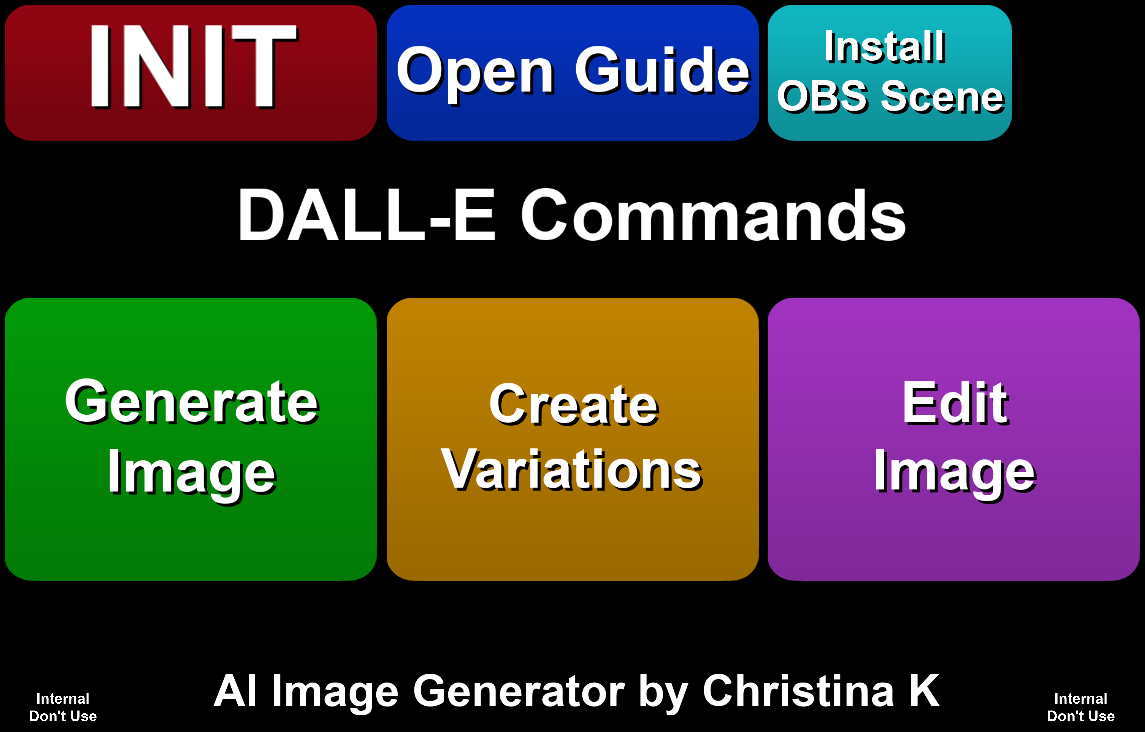
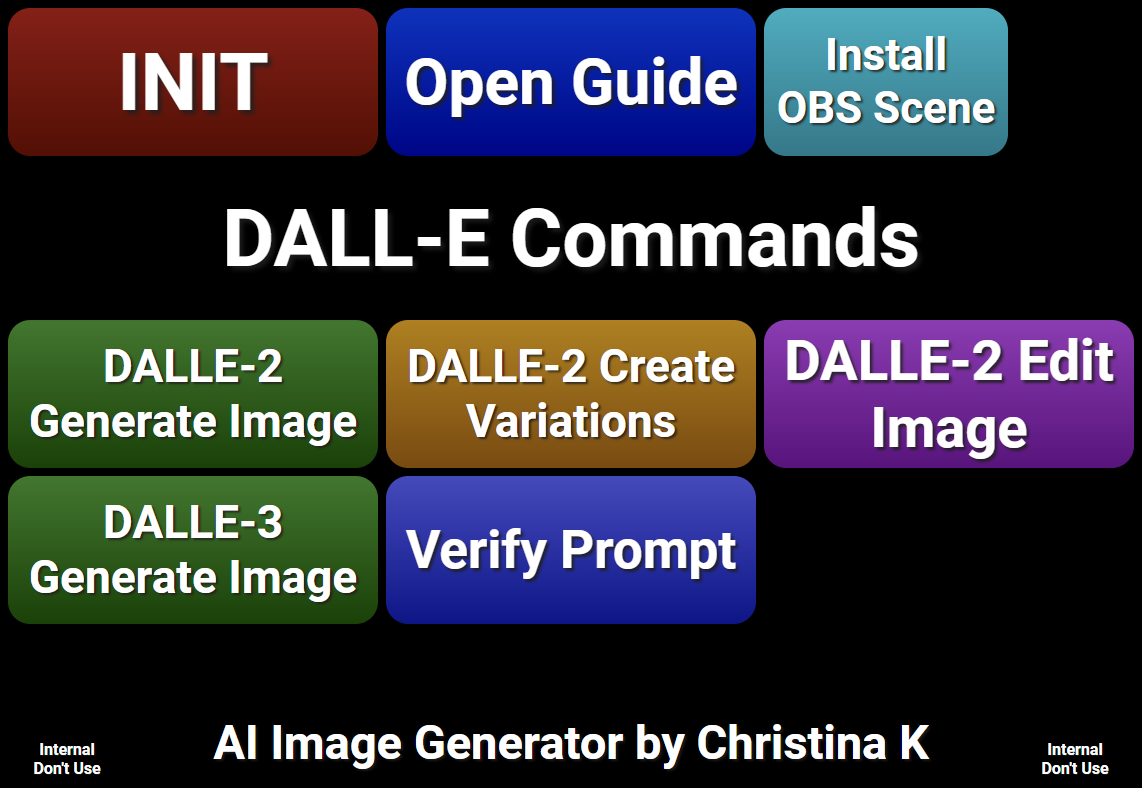
update ai image generator extension

diff --git a/collections/_extensions/ai-image-generator.md b/collections/_extensions/ai-image-generator.md
@@ -4,7 +4,7 @@ title: AI Image Generator
 slug: ai-image-generator
 desc: Integrate DALL-E in your streams.
 category: utilities
-date: '2023-03-27T00:00:00-05:00'
+date: '2023-04-20T00:00:00-05:00'
 permalink: extensions/utilities/:slug
 download_url: https://christinak.itch.io/ai-image-generator
 developer_name: Christina K.
@@ -22,12 +22,15 @@ overview: |
     ##### Features  
 
     **Generating images**
-    - Generate new image(s) based on a prompt
+    - Generate new image(s) based on a prompt with DALL-E 2 or DALL-E 3 models
     - Generate image variation(s) based on a provided image
     - Generate image edit(s) based on a provided image and mask. 
 
     **Saving Images**
     - Saves the generated image(s) to URL or to a file. 
+
+    **Verifying Prompts**
+    - Verify the prompt is safe before generating an image (0 cost)
 
     **User friendly**
     - Lots of checks implemented to avoid sending invalid parameters to Open API
@@ -45,41 +48,54 @@ overview: |
     *Icon generated by OpenAI*
 
 setup: |
-    ##### PLEASE REVIEW BEFORE USING THE EXTENSION: 
-    - DALL-E is a paid service, it requires an OpenAI account and a credit card
-    - Always monitor your usage via the official OpenAI dashboard
-    - Set usage limits via the official OpenAI dashboard
-    - As this is a beta release of the extension, using it could potentially lead
-    to higher API calls usage due to user error or possible bugs. 
+
+
+    <div class="alert alert-warning mt-2" role="alert">DALL-E is a paid service, it requires an OpenAI account and a credit card. Please set usage limits and monitor your usage via <a href='https://platform.openai.com/account/limits'>OpenAI dashboard</a>.</div>
 
     1. Install the extension. You can follow the [Extension Install Guide](https://sammi.solutions/extensions/install).
     2. Setup your INIT button
        - `API Key`: 
-            1. Navigate to [https://platform.openai.com/signup](https://platform.openai.com/signup)
+            1. Navigate to [https://platform.openai.com](https://platform.openai.com)
             2. Login or create a new account
-            3. Click on 'Personal' profile in the top right corner and select View API Keys
+            3. Navigate to [API Keys](https://platform.openai.com/api-keys)
             4. Create a new secret key
             5. Copy paste the key in the Open AI API box in the INIT button
-            6. Set up your payment method (else it won't work - the service is not free)
-            7. Set you usage limits at [https://platform.openai.com/account/billing/limits](https://platform.openai.com/account/billing/limits)
+            6. Set up your payment method in the [Billing section](https://platform.openai.com/settings/organization/billing/overview) and add credits to your balance or enable auto-recharge
+            7. Set your [usage limits](https://platform.openai.com/settings/organization/limits)
 
-    <div class="alert alert-info mt-2" role="alert">Image generation can take a while. Adjust your delays for the following commands accordingly, 60 seconds or more is recommended to account for high traffic.</div>
+    <div class="alert alert-info mt-2" role="alert">Image generation can take a while. Adjust your delays for the following commands accordingly, 60 seconds or more is recommended to account for high traffic.</div> 
 
     ##### DALL-E Generate
-    Generates a new image based on a prompt. All buttons with DALL-E commands must be set to persistent.
+    Generates a new image based on a prompt, uses DALL-E 2 model. 
 
-    | Box Name | Description| 
+    | Box Name | Description|
     |-------|--------|
     Prompt	|The image description, the more detailed the better, max 1000 characters
     Amount|	Amount of images to generate, between 1-10
     Size	|Size of the generated image
     Response|	Save the image as a file or as a URL. If saving it as a file, it will be saved in your SAMMI folder/Ext/image generations. To prevent files from being accidentally overridden, the filename is automatically generated in the following format: `DALL·E {timestamp} - {truncated prompt}_{index}.png`
     Save As Variable|	Variable to save the result into, won't be set at all if generating failed. If saving the image as a file, it will be an array containing all image file paths. If saving the image as a URL, it will be an array containing all image URLs
-    Save as Variable (status)	|Variable to save the status result into. If the request succeeds, it will be set to `1`, if not, it will be set to `0`
+    Save as Variable (status) | Variable to save the status result into. If the request succeeds, it will be set to `1`, if not, it will be set to `0`
+    {:class='table table-secondary w-auto table-hover text-break'}	
+
+    ##### DALL-E 3 Generate
+    Generates a new image based on a prompt, uses DALL-E 3 model. 
+
+    | Box Name | Description| 
+    |-------|--------|
+    Prompt	| The image description, the more detailed the better, max 1000 characters
+    Amount	| Amount of images to generate. Currently only 1 image is supported
+    Quality | The quality of the image. Hd creates images with finer details and greater consistency across the image.
+    Size	| Size of the generated image
+    Style |  Vivid causes the model to lean towards generating hyper-real and dramatic images. Natural causes the model to produce more natural, less hyper-real looking images. 
+    Response |	Save the image as a file or as a URL. If saving it as a file, it will be saved in your SAMMI folder/Ext/image generations. To prevent files from being accidentally overridden, the filename is automatically generated in the following format: `DALL·E {timestamp} - {truncated prompt}_{index}.png`
+    Save As Variable |	Variable to save the result into, won't be set at all if generating failed. If saving the image as a file, it will be an array containing all image file paths. If saving the image as a URL, it will be an array containing all image URLs
+    Save as Variable (status) | Variable to save the status result into. If the request succeeds, it will be set to `1`, if not, it will be set to `0`
     {:class='table table-secondary w-auto table-hover text-break' }	
 
+
     ##### DALL-E Variations
-    Generates image variations based on the supplied image. All buttons with DALL-E commands must be set to persistent.
+    Generates image variations based on the supplied image. Uses DALL-E 2 model.
 
 
     | Box Name | Description| 
@@ -93,7 +109,7 @@ setup: |
     {:class='table table-secondary w-auto table-hover text-break' }	
 
     ##### DALL-E Edit
-    Creates an edited or extended image given an original image and a prompt. All buttons with DALL-E commands must be set to persistent.
+    Creates an edited or extended image given an original image and a prompt. Uses DALL-E 2 model.
 
     | Box Name | Description| 
     |-------|--------|
@@ -105,6 +121,19 @@ setup: |
     | Response | Save the image as a file or as a URL. If saving it as a file, it will be saved in your SAMMI folder/Ext/image generations. To prevent files from being accidentally overridden, the filename is automatically generated in the following format: `DALL·E {timestamp} - {originalFileName}_{index}.png` |
     | Save As Variable | Variable to save the result into. If saving the image as a file, it will be an array containing all image file paths. If saving the image as a URL, it will be an array containing all image URLs |
     | Save as Variable (status) | Variable to save the status result into. If the request succeeds, it will be set to `1` (succeeded), if not, it will be set to `0` (failed) |
+    {:class='table table-secondary w-auto table-hover text-break' }
+
+
+    ##### DALL-E Verify Prompt
+    Verifies the prompt is safe before attempting to generate an image. This is a free endpoint.  
+
+    The response will contain an object with detailed categories and their scores.
+    The easiest way to see if the prompt has been tagged is to check the `flagged` key. 
+
+    | Box Name | Description|
+    Prompt  | The prompt to verify
+    Save As Variable  | Variable names to save the result into 
+    | Save as (result) | Variable name to save the status of the response. If the request succeeds, it will be set to `1` (succeeded), if not, it will be set to `0` (failed) |
     {:class='table table-secondary w-auto table-hover text-break' }
 privacy_collect: false
 ---
